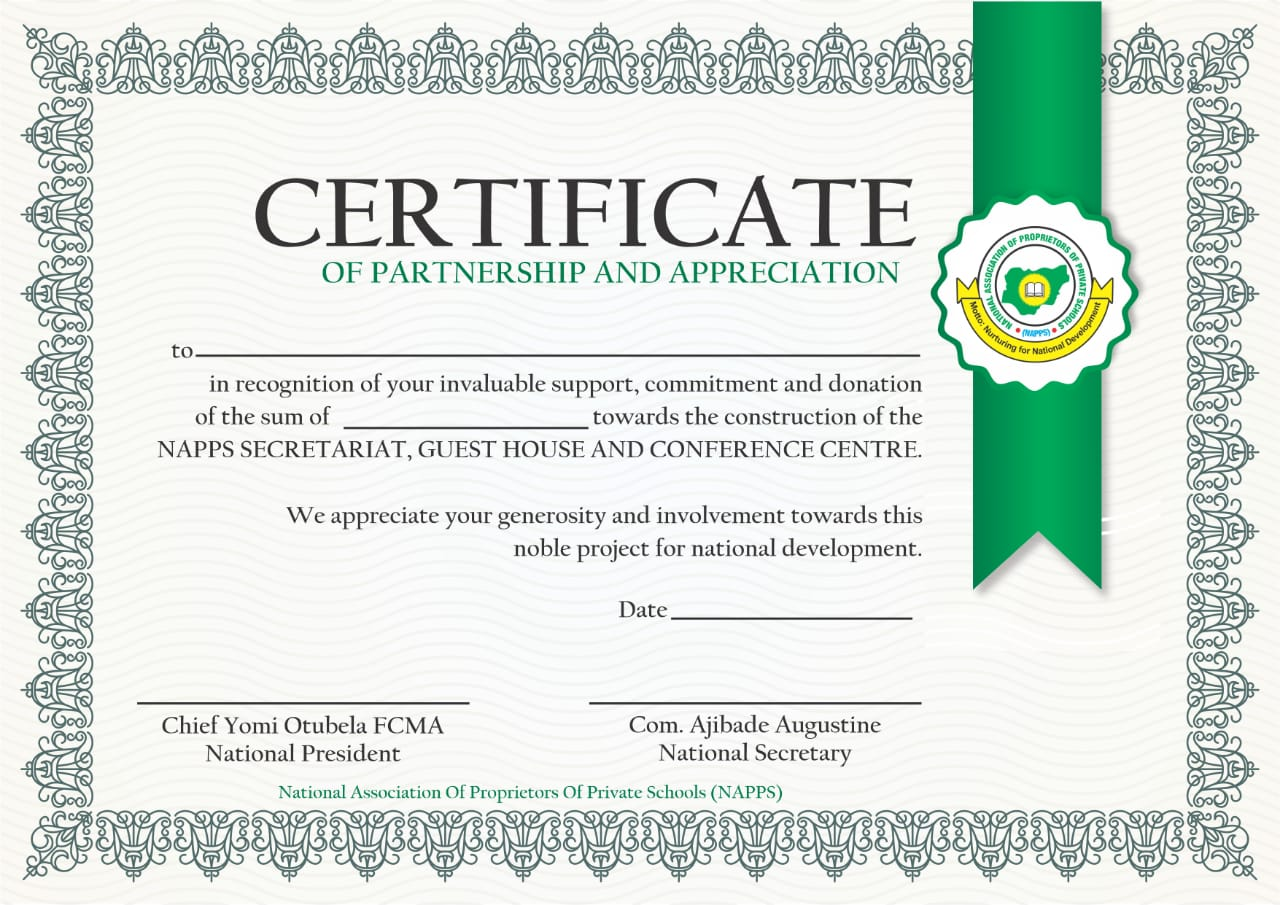
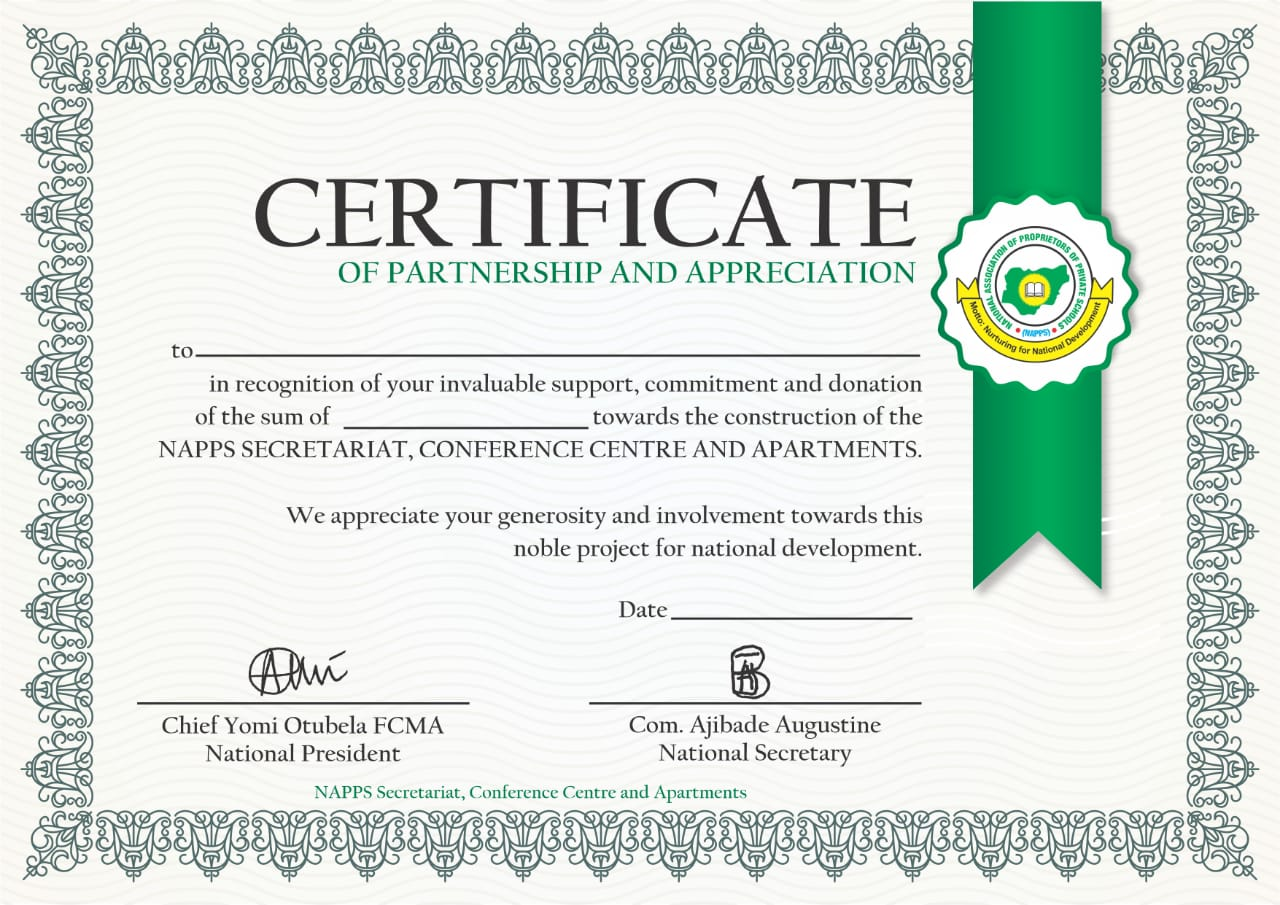
+

diff --git a/src/components/cert/Cert.tsx b/src/components/cert/Cert.tsx
@@ -48,7 +48,7 @@ const Cert = ({ userData }: { userData: usersInfo | null }) => {
         className="w-[12%] print:width-[16%] absolute bottom-[110px] print:bottom-[90px] right-[140px] print:right-[180px]"
         alt=""
       />
-            <img
+            {/* <img
         src={president}
         className="w-[16%] absolute bottom-[160px] print:bottom-[120px] left-[190px] print:left-[190px]"
         alt=""
@@ -57,7 +57,7 @@ const Cert = ({ userData }: { userData: usersInfo | null }) => {
         src={secetary}
         className="w-[9%] absolute bottom-[180px] print:bottom-[180px] right-[390px] print:right-[390px]"
         alt=""
-      />
+      /> */}
     </div>
   );
 };

diff --git a/src/components/cert2/Cert.tsx b/src/components/cert2/Cert.tsx
@@ -44,7 +44,7 @@ const Cert = ({ userData }: { userData: usersInfo | null }) => {
         className="w-[10%] absolute bottom-[220px] print:bottom-[220px] right-[90px] print:right-[90px]"
         alt=""
       />
-      <img
+      {/* <img
         src={president}
         className="w-[16%] absolute bottom-[120px] print:bottom-[120px] left-[190px] print:left-[190px]"
         alt=""
@@ -53,7 +53,7 @@ const Cert = ({ userData }: { userData: usersInfo | null }) => {
         src={secetary}
         className="w-[12%] absolute bottom-[140px] print:bottom-[140px] right-[190px] print:right-[190px]"
         alt=""
-      />
+      /> */}
     </div>
   );
 };
